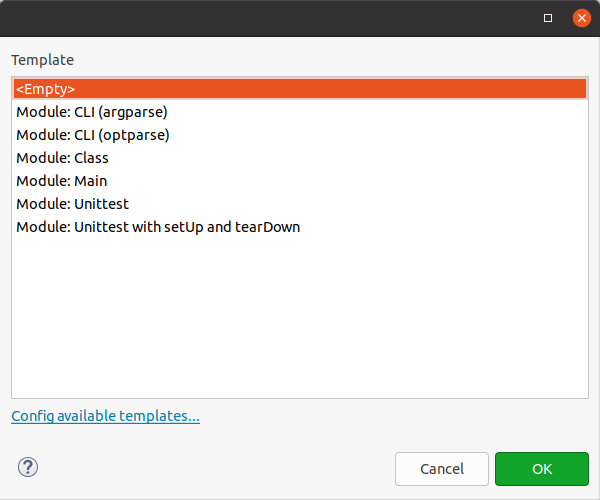
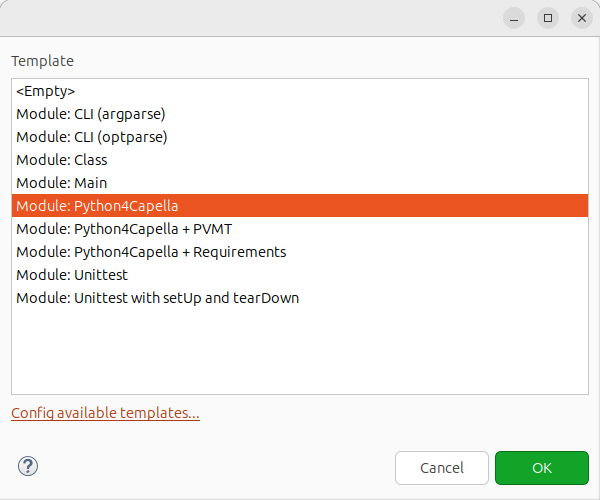
Updated write script documentation to show module templates.

diff --git a/doc/org.eclipse.python4capella.doc/doc/user/general/Write.html b/doc/org.eclipse.python4capella.doc/doc/user/general/Write.html
@@ -41,6 +41,7 @@
 		<p>
 			<img alt="New PyDev module template" title="New PyDev module template" border="0" src="Write/New_PyDev_module_template.png"/>
 		</p>
+		<p>You can choose one of the Pythonfor Capella templates to create a script containing needed imports.</p>
 		<h2 id="Importrequiredscripts">Import required scripts</h2>
 		<p>You will need to import the Capella APIs (This statement can produce an error, but you can ignore or 
 			<a href="RemoveFalseErrors.html">remove</a> it):
